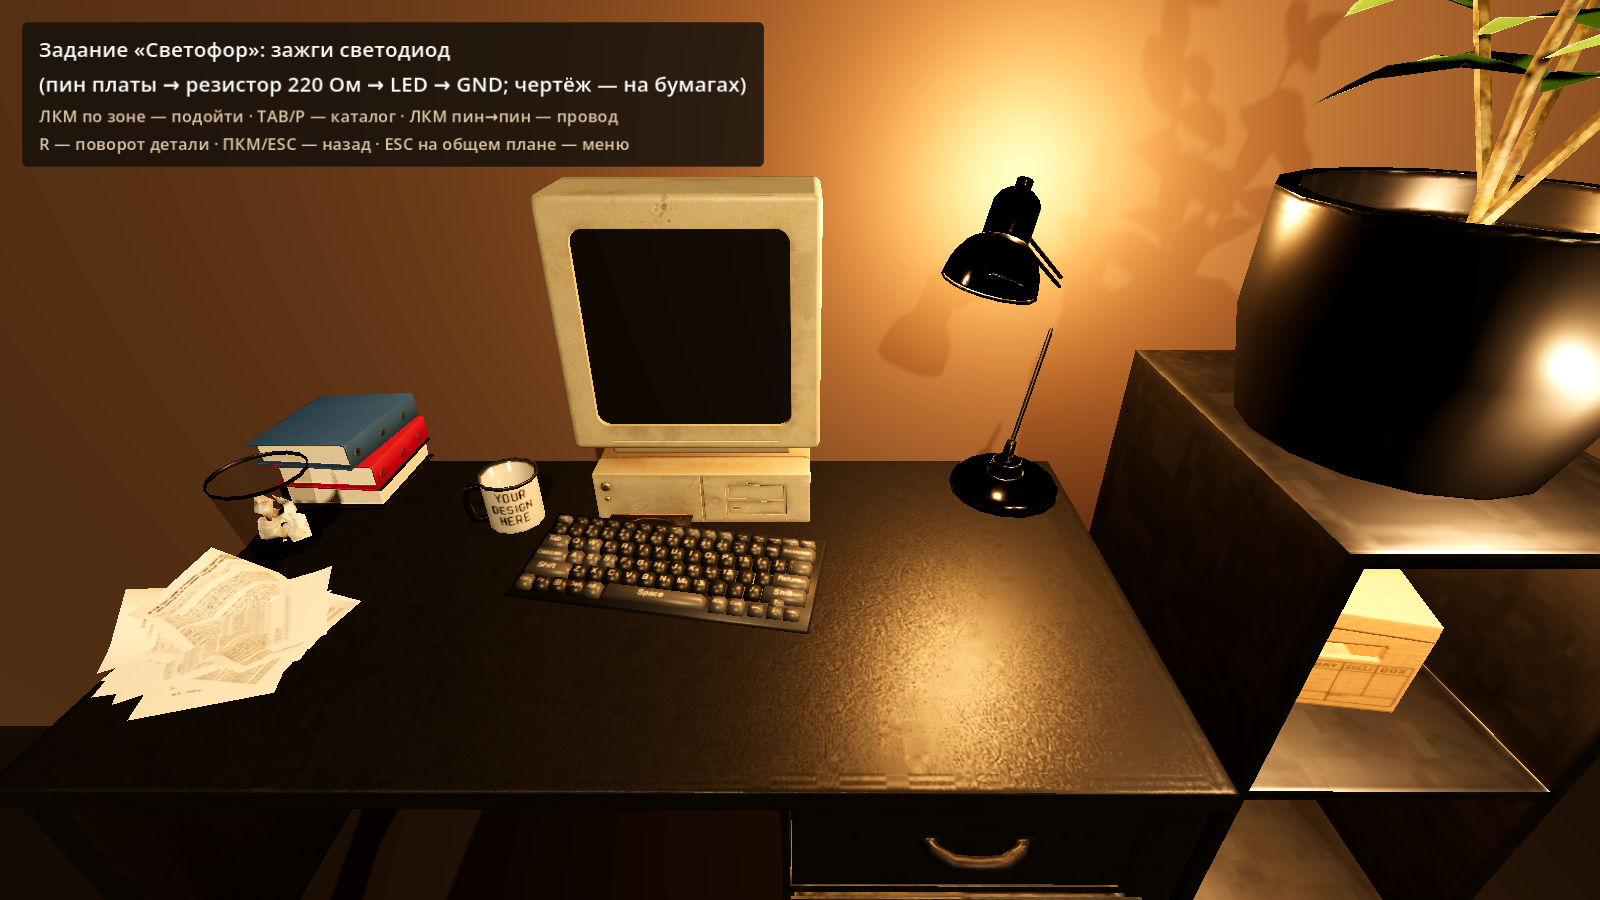
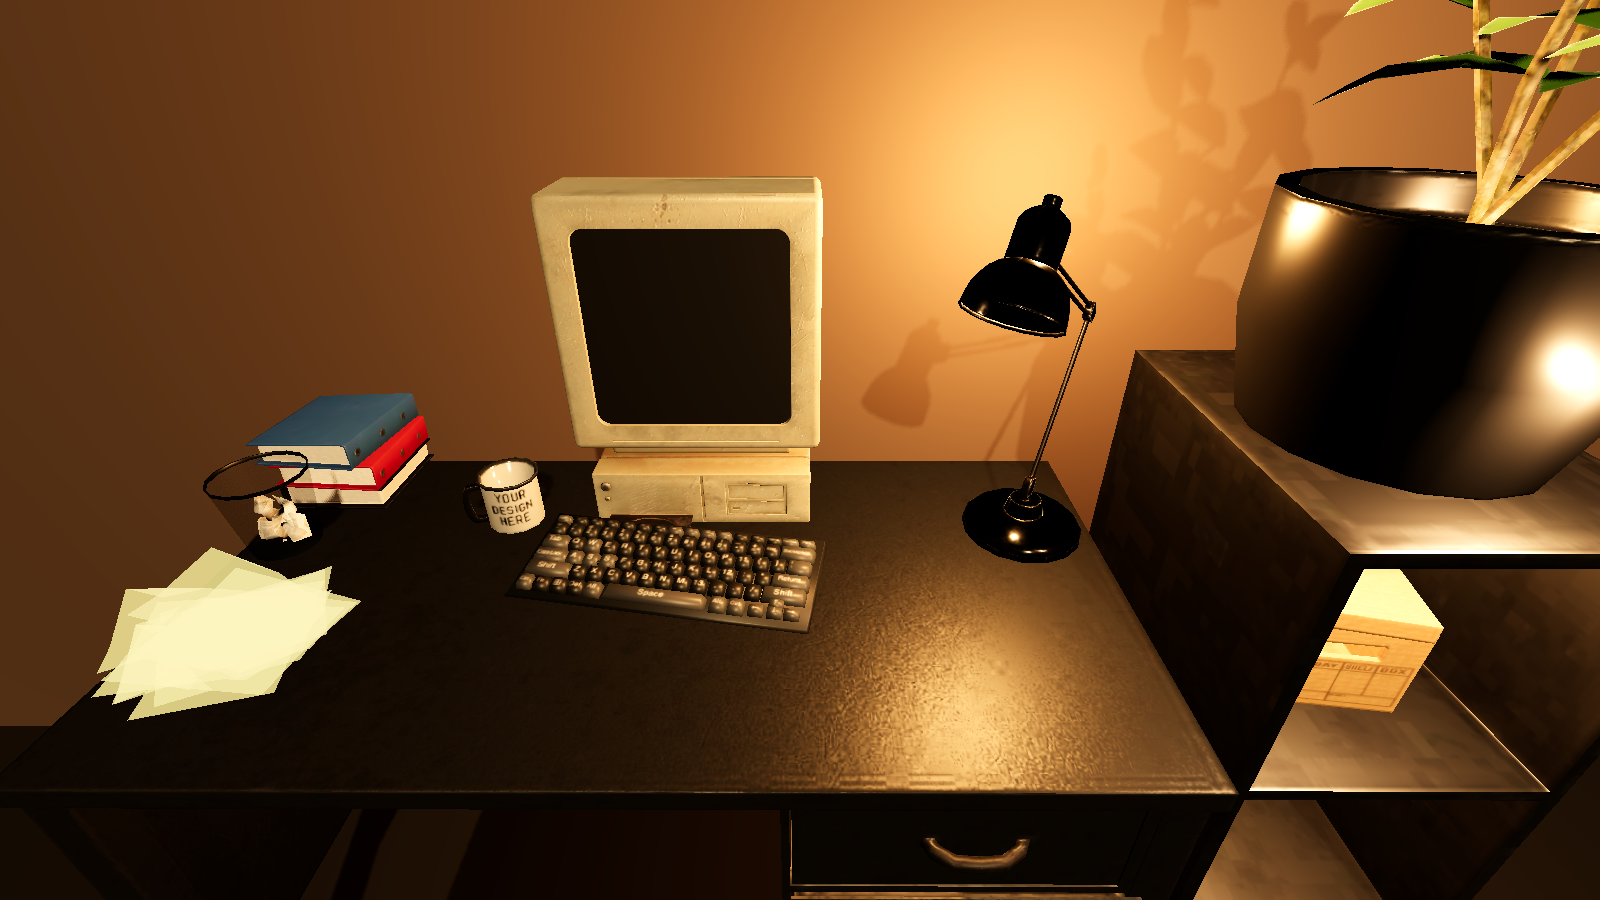
Раунд 3: резкий зум в сборку, анзум закрывающими кнопками, мигающие зоны
- interact: зум/обратный выход из сборки — мгновенный снап (без пролёта);
  ortho-вид теперь размера 0.36 (видна вся область сборки); панорама за курсором убрана
- interact: реальные лучи для ortho-камеры (cam.project_ray_origin) — клик/драг/провода работают
- bench: PICK_R 13→6 мм (клик по корпусу не цепляет провод к пину)
- blueprint: Замкнутый контур Arduino Uno (D13→220 Ом→LED→GND) кодом; «Закрыть» уводит камеру
- code_editor (ПК): только заголовок «Редактор кода», полноэкранный интерфейс
- interact: мигание-подсказка — сначала чертёж (пульс), затем каталог; гаснет при заходе
- HUD-плашка слева сверху убрана полностью
- Лампа на столе не задевает стену (+11 см от стены)
- verify_input.gd: E2E событий мыши (клик пина → провод, драг корпуса, R — поворот)

diff --git a/README.md b/README.md
@@ -16,15 +16,21 @@
 ## Игровой цикл (MVP)
 
 - Главное меню → игра (клик по столу / зум камерой на зоны).
-- Наведение и клик по зонам: ПК, бумаги (чертежи), шкаф, зона сборки.
-- Каталог из 31 реальной детали: клик — деталь появляется на столе.
-- Сборка цепи: ортографический вид сверху, сетка 2 см, перетаскивание,
-  поворот на 90° (R), провода от пина к пину.
+- Мигание-подсказка: сначала пульсируют бумаги (чертёж), после захода туда —
+  пульсирует шкаф (каталог); мигание гаснет при заходе в зону.
+- Наведение и клик по зонам: ПК, бумаги (чертёж), шкаф (каталог), сборка.
+- Каталог из 32 деталей: клик — деталь появляется на столе.
+- Сборка цепи: фиксированный ортографический вид сверху (зум резкий, без полёта),
+  сетка 2 см, перетаскивание, поворот на 90° (R), провода от пина к пину (выбор
+  начала/конца — клик и отпускание ЛКМ).
 - Симуляция тока: узловой анализ (MNA), LED с порогом и внутренним
   сопротивлением, параллельные/последовательные цепи — `Scripts/sim/circuit_sim.gd`.
 - Виртуальная Arduino: подмножество C (`pinMode`, `digitalWrite`, `analogRead`,
   `delay`, `if`, `for`), компилятор с ошибками на русском — `Scripts/sim/arduino_vm.gd`.
-- ESC на общем плане — возврат в меню.
+- Редактор кода — полноэкранный; «Загрузить на плату» работает только когда
+  плата на столе (иначе редактор подскажет, что её не хватает).
+- На чертеже — ровно один Arduino-контур: пин 13 → резистор 220 Ом → LED → GND.
+- Один ESC закрывает оверлей и уводит камеру; ESC на общем плане — возврат в меню.
 
 ## Запуск
 

diff --git a/TASKS.md b/TASKS.md
@@ -138,10 +138,11 @@
 
 ## 6. Геймплей-обвязка
 
-### [~] 6.1. Задания: записки/файлы на ПК с целями («заставь LED мигать 3 раза»), проверка успеха
-- Mini: HUD в левом верхнем углу — цель («соберите цепь 5 В → 220 Ом → LED»),
-  подсказки клавиш, зелёное «Задание выполнено ✓» — когда LED горит
-  (тот же предикат, что у чертежа); верификация `GODOT_VERIFY=hud`.
+### [ ] 6.1. Задания: записки/файлы на ПК с целями («заставь LED мигать 3 раза»), проверка успеха
+- Mini (попытка 1): HUD слева сверху — цель/подсказки → УБРАН по просьбе игрока (мешал игре).
+- Mini (попытка 2): пульсирующая подсветка зон-подсказок — сначала мигает чертёж на бумагах,
+  потом шкаф (каталог); мигание гаснет при заходе в зону (`_flash_stage`). Чертёж рисуется
+  кодом: замкнутый контур Arduino Uno (пин 13 → R 220 Ом → LED → GND).
 ### [ ] 6.2. Сохранение прогресса
 ### [ ] 6.3. Звуки (щелчки мультиметра, кнопки, пик continuity)
 ### [ ] 6.4. Полировка переходов меню ↔ игра
